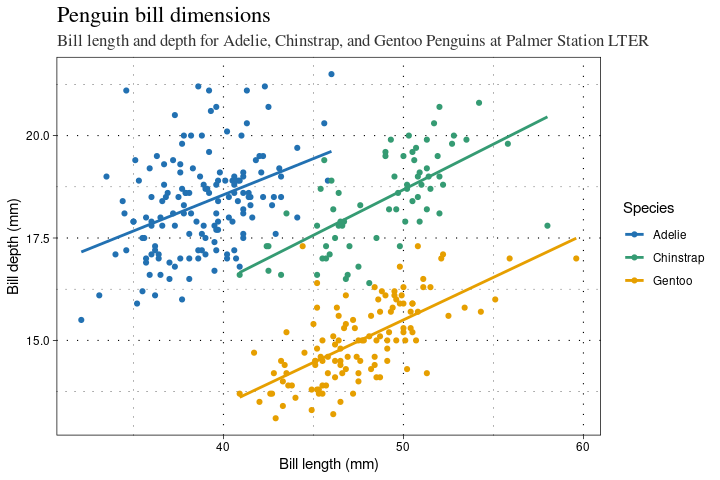
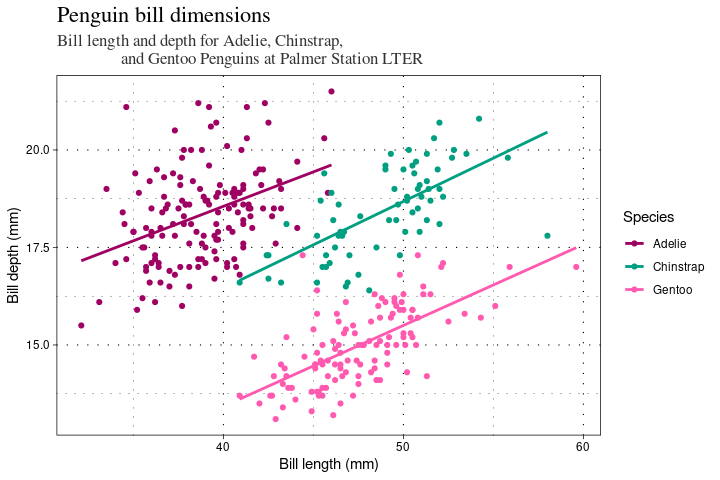
Additional colors.
Updated to add additional color palettes. scale functions updated to take on a palette argument for selection.

diff --git a/README.md b/README.md
@@ -18,12 +18,13 @@ by students in the McCall Lab in the Department of Biostatistics at
 University of Rochester. The palettes in this package are all intended
 to be color blindy friendly.
 
-As of right now only one color palette is available, supporting up to 8
-colors. This palette was adapted by Martin Krzywinski from [Points of
-view: Color Blindness](https://www.nature.com/articles/nmeth.1618) by
-Bang Wong. Further updates to this package will include the remaining
-palettes displayed on [Martin’s own
-website](http://mkweb.bcgsc.ca/colorblind/palettes.mhtml#page-container).
+Supports color palettes with 8, 12, 15, or 48 color options. These
+palettes were adapted by [Martin
+Krzywinski](http://mkweb.bcgsc.ca/colorblind/palettes.mhtml#page-container),
+of which the 8 color palette was adapted from [Points of view: Color
+Blindness](https://www.nature.com/articles/nmeth.1618) by Bang Wong.
+Further updates to this package will include the remaining palettes
+displayed on.
 
 ``` r
 library(ggmccalllab)
@@ -34,10 +35,35 @@ library(palmerpenguins)
 
 ## Example plots
 
+An example of the 8 color palette and theme is shown here, applied to
+the cell-types data from <https://github.com/zachbrehm/celltypes>.
+
+``` r
+ggplot(tsneDf, aes(x = X, y = Y, color = Z, text = Project, alpha = 0.8)) + 
+  geom_point() + 
+  labs(title = "Cell-type data with dimension reduction by TSNE", 
+       x = "First Dimension", 
+       y = "Second Dimension", 
+       color = "Cell-Type",
+       text = rse$study) + 
+  guides(alpha = FALSE) + 
+  scale_color_mccall_lab(palette = "martink8",
+                         labels = c("Cardiac Muscle", 
+                                   "Endothelial", 
+                                   "Erythrocyte", 
+                                   "Adipocyte", 
+                                   "Lymphocyte", 
+                                   "Macrophage", 
+                                   "Smooth Muscle"),
+                        ) +
+  theme_mccall_lab()
+```
+
 ![](man/figures/gg_tsne.png)<!-- -->
 
-As another example, we recreate the **Bill length vs. depth** example
-from the `palmerpenguins` article:
+As another example, this time using selections from the 12 color
+palette, we recreate the **Bill length vs. depth** example from the
+`palmerpenguins` article:
 <https://allisonhorst.github.io/palmerpenguins/articles/examples.html>
 
 ``` r
@@ -49,7 +75,7 @@ ggplot(
     shape = 19
     ) +
   geom_smooth(method = "lm", se = FALSE) +
-  scale_color_mccall_lab() +
+  scale_color_mccall_lab(palette = "martink12") +
   labs(
     title = "Penguin bill dimensions",
     subtitle = "Bill length and depth for Adelie, Chinstrap, 

diff --git a/NEWS.md b/NEWS.md
@@ -1,2 +1,7 @@
+# v0.1.2
+* Added 12, 15, and 48 color palettes.
+* Updated scale_color_mccall_lab to take a palette argument to select which 
+  palette to use.
+
 # v0.1.1
 * 8 color palette available
